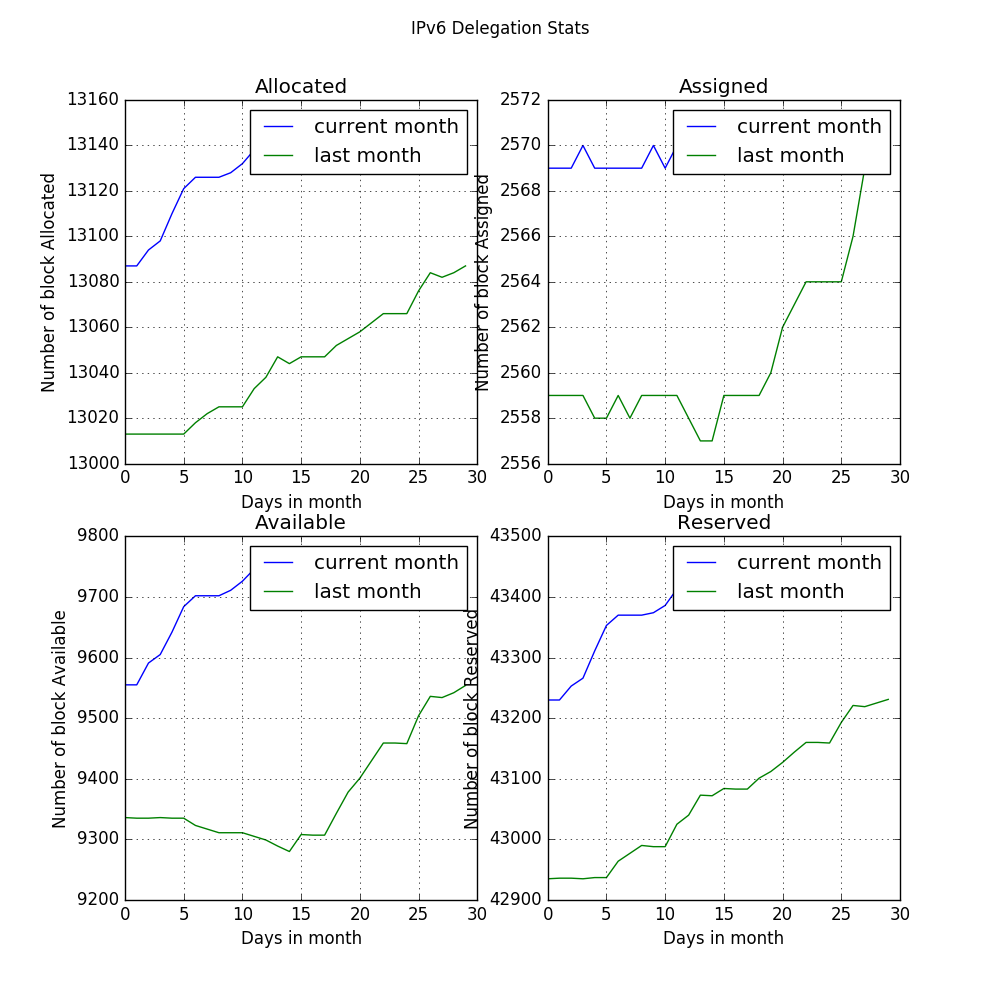
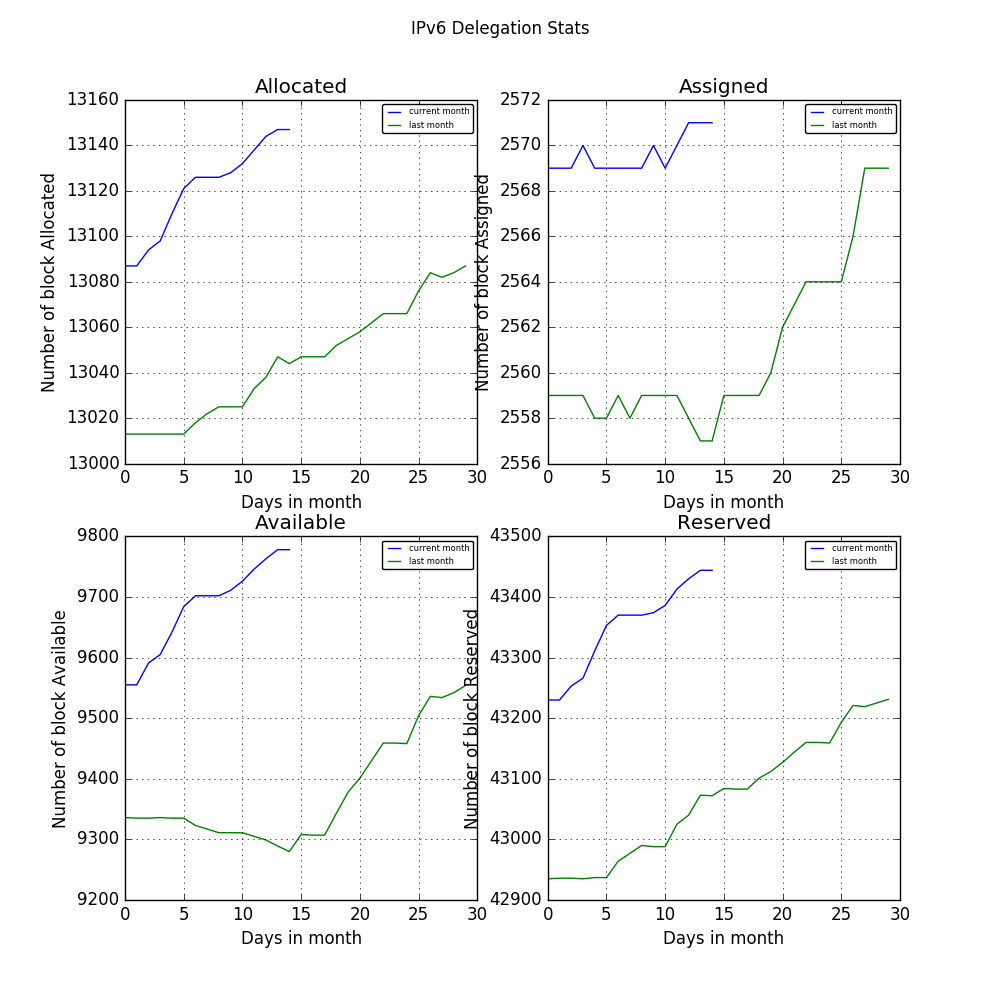
Updated graph legend

diff --git a/graphs/generate_graph_functions.py b/graphs/generate_graph_functions.py
@@ -43,11 +43,11 @@ def current_dates():
 
 def create_graph(graph_title, current_data, past_data, y_label, position):
     plt.subplot(position)
-    plt.plot(current_data)
-    plt.plot(past_data)
+    plt.plot(current_data, label='current month')
+    plt.plot(past_data, label='last month')
     plt.ylabel(y_label)
     plt.xlabel('Days in month')
-    plt.legend(['current month', 'last month'])
+    plt.legend(fancybox=True, prop={'size': 6})
     plt.title(graph_title)
     plt.grid(True)
 
